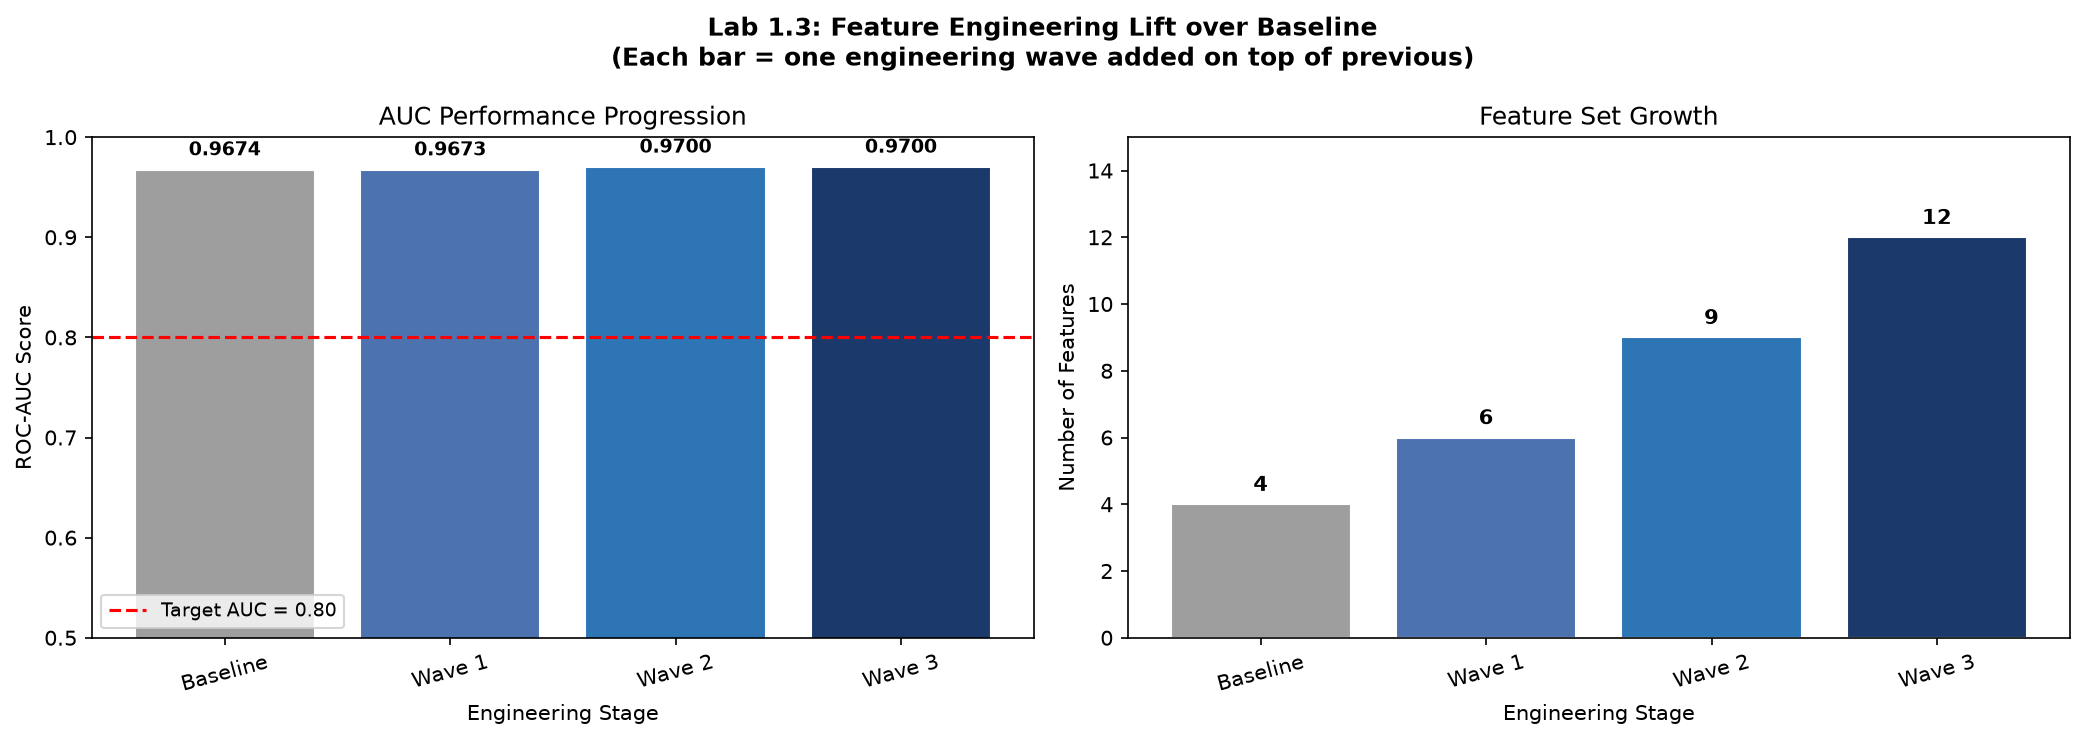
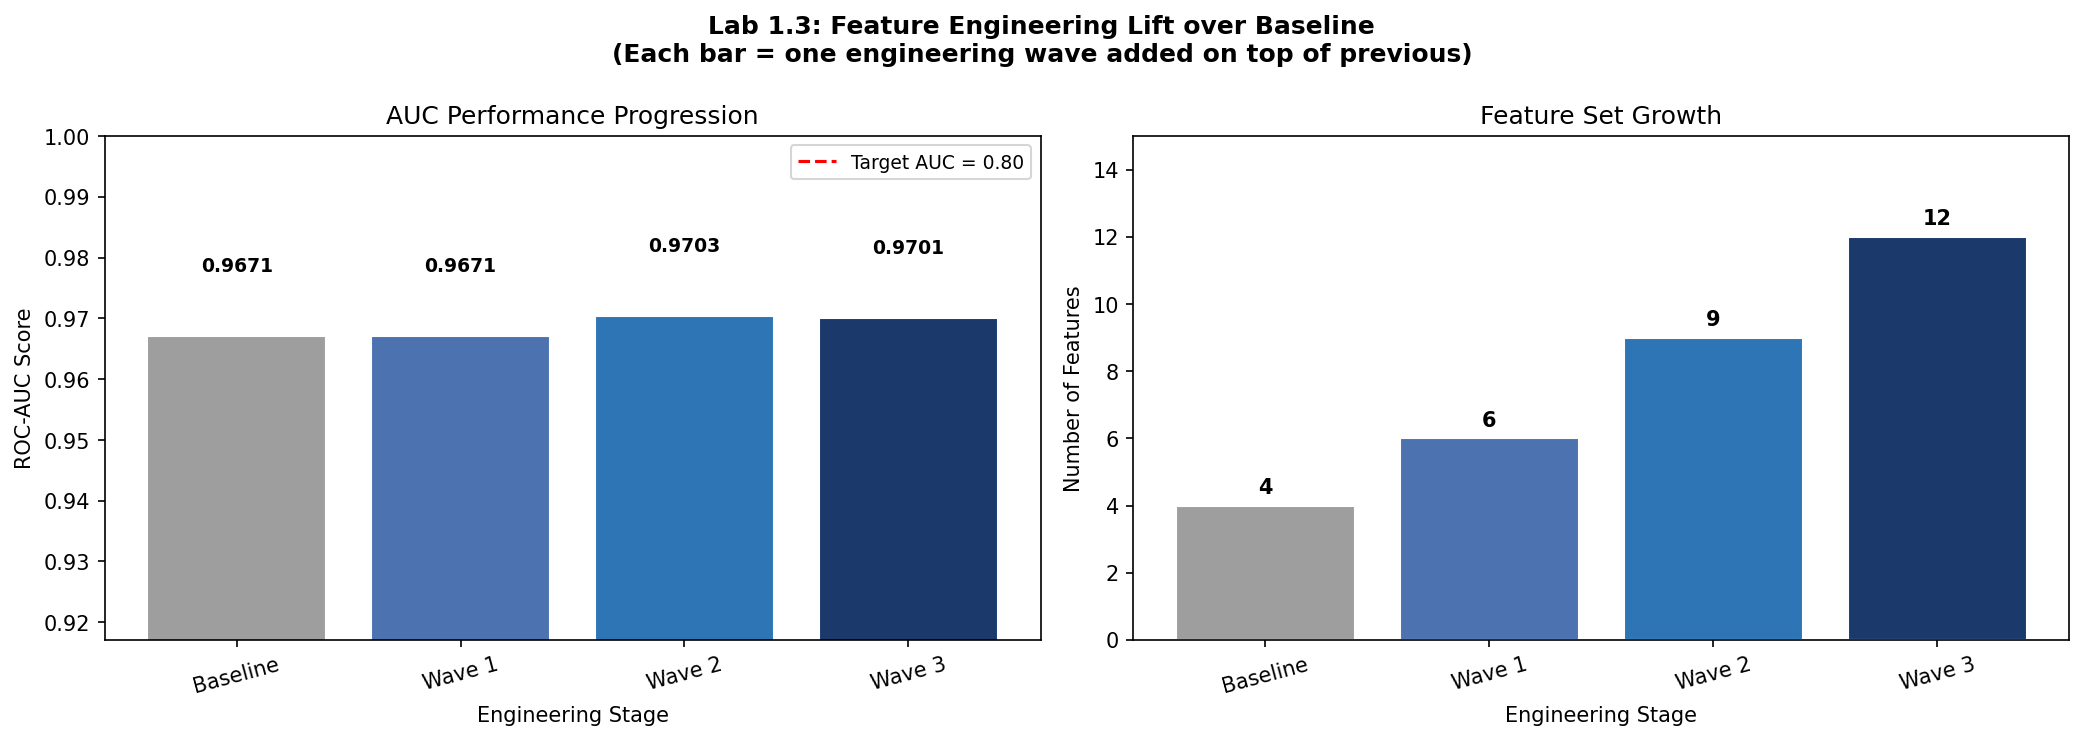
Lab 1.3: refresh script & output

diff --git a/feature_pipeline.py b/feature_pipeline.py
@@ -111,7 +111,9 @@ base_auc, base_ap, _ = train_and_evaluate(
     label="Baseline — Raw Features (Lab 1.2)"
 )
 
-results = [("Baseline — Raw Features (Lab 1.2)", base_auc, base_ap, len(RAW_FEATURES))]
+results = [
+    ("Baseline — Raw Features (Lab 1.2)", base_auc, base_ap, len(RAW_FEATURES))
+]
 
 # ---------------------------------------------------------------------------
 # SECTION 4: WAVE 1 — Ratio Features
@@ -131,7 +133,10 @@ user_df['views_per_day'] = (
     user_df['total_views'] / (user_df['active_days'] + 1)
 )
 
-WAVE1_FEATURES = RAW_FEATURES + ['cart_to_view_ratio', 'views_per_day']
+WAVE1_FEATURES = RAW_FEATURES + [
+    'cart_to_view_ratio',
+    'views_per_day'
+]
 
 # TODO: Evaluate performance across WAVE1_FEATURES using the training helper
 w1_auc, w1_ap, _ = train_and_evaluate(
@@ -139,7 +144,10 @@ w1_auc, w1_ap, _ = train_and_evaluate(
     WAVE1_FEATURES,
     label="Wave 1 — + Ratio Features"
 )
-results.append(("Wave 1 — + Ratio Features", w1_auc, w1_ap, len(WAVE1_FEATURES)))
+
+results.append(
+    ("Wave 1 — + Ratio Features", w1_auc, w1_ap, len(WAVE1_FEATURES))
+)
 
 # ---------------------------------------------------------------------------
 # SECTION 5: WAVE 2 — Datetime Features
@@ -197,7 +205,10 @@ w2_auc, w2_ap, _ = train_and_evaluate(
     WAVE2_FEATURES,
     label="Wave 2 — + Datetime Features"
 )
-results.append(("Wave 2 — + Datetime Features", w2_auc, w2_ap, len(WAVE2_FEATURES)))
+
+results.append(
+    ("Wave 2 — + Datetime Features", w2_auc, w2_ap, len(WAVE2_FEATURES))
+)
 
 # ---------------------------------------------------------------------------
 # SECTION 6: WAVE 3 — Interaction Terms
@@ -232,7 +243,10 @@ w3_auc, w3_ap, final_model = train_and_evaluate(
     WAVE3_FEATURES,
     label="Wave 3 — + Interaction Terms (Final)"
 )
-results.append(("Wave 3 — + Interaction Terms (Final)", w3_auc, w3_ap, len(WAVE3_FEATURES)))
+
+results.append(
+    ("Wave 3 — + Interaction Terms (Final)", w3_auc, w3_ap, len(WAVE3_FEATURES))
+)
 
 # ---------------------------------------------------------------------------
 # SECTION 7: Full Lift Summary Table
@@ -258,17 +272,27 @@ for stage, auc, ap, feature_count in results:
 # ---------------------------------------------------------------------------
 print("\n[7] Plotting lift progression...")
 
-stages = [r[0].split("—")[0].strip() for r in results]
-aucs = [r[1] for r in results]
-n_feats = [r[3] for r in results]
+stages = [result[0].split("—")[0].strip() for result in results]
+aucs = [result[1] for result in results]
+n_feats = [result[3] for result in results]
 colors = ['#9E9E9E', '#4C72B0', '#2E75B6', '#1B3A6B']
 
 fig, axes = plt.subplots(1, 2, figsize=(14, 5))
-fig.suptitle("Lab 1.3: Feature Engineering Lift over Baseline\n(Each bar = one engineering wave added on top of previous)", fontsize=12, fontweight='bold')
+fig.suptitle(
+    "Lab 1.3: Feature Engineering Lift over Baseline\n"
+    "(Each bar = one engineering wave added on top of previous)",
+    fontsize=12,
+    fontweight='bold'
+)
 
 # --- Left Subplot: AUC Progression ---
 # TODO: Create a bar chart on axes[0] visualizing the change in AUC score over stages
-bars = axes[0].bar(stages, aucs, color=colors, edgecolor='white')
+bars = axes[0].bar(
+    stages,
+    aucs,
+    color=colors,
+    edgecolor='white'
+)
 
 # TODO: Overlay a target benchmark line using axes[0].axhline(y=0.80, color='red', linestyle='--')
 # Set titles, labels, x-ticks, and add values above each bar for context
@@ -283,7 +307,7 @@ axes[0].axhline(
 axes[0].set_title("AUC Performance Progression")
 axes[0].set_xlabel("Engineering Stage")
 axes[0].set_ylabel("ROC-AUC Score")
-axes[0].set_ylim(min(0.5, min(aucs) - 0.05), 1.0)
+axes[0].set_ylim(max(0.0, min(aucs) - 0.05), 1.0)
 axes[0].tick_params(axis='x', rotation=15)
 axes[0].legend(fontsize=9)
 
@@ -350,9 +374,10 @@ fig, ax = plt.subplots(figsize=(9, 6))
 # TODO: Trace an ax.barh metric representation detailing engineering output metrics
 # Optional Hint: slicing with [::-1] mirrors structures to present the most significant components at the top
 plot_df = imp_df.iloc[::-1].copy()
+top_three_features = set(imp_df.head(3)['feature'])
 
 bar_colors = [
-    '#D4AF37' if feature in imp_df.head(3)['feature'].values else '#4C72B0'
+    '#D4AF37' if feature in top_three_features else '#4C72B0'
     for feature in plot_df['feature']
 ]
 
@@ -363,13 +388,17 @@ ax.barh(
     edgecolor='white'
 )
 
-ax.set_title("Feature Importance — Full Engineered Set\n(Gold = top 3 features)", fontweight='bold')
+ax.set_title(
+    "Feature Importance — Full Engineered Set\n(Gold = top 3 features)",
+    fontweight='bold'
+)
 ax.set_xlabel("Importance (Gain)")
+ax.set_xlim(0, plot_df['importance'].max() * 1.15)
 
-for i, importance in enumerate(plot_df['importance']):
+for index, importance in enumerate(plot_df['importance']):
     ax.text(
         importance,
-        i,
+        index,
         f" {importance:.4f}",
         va='center',
         fontsize=8
